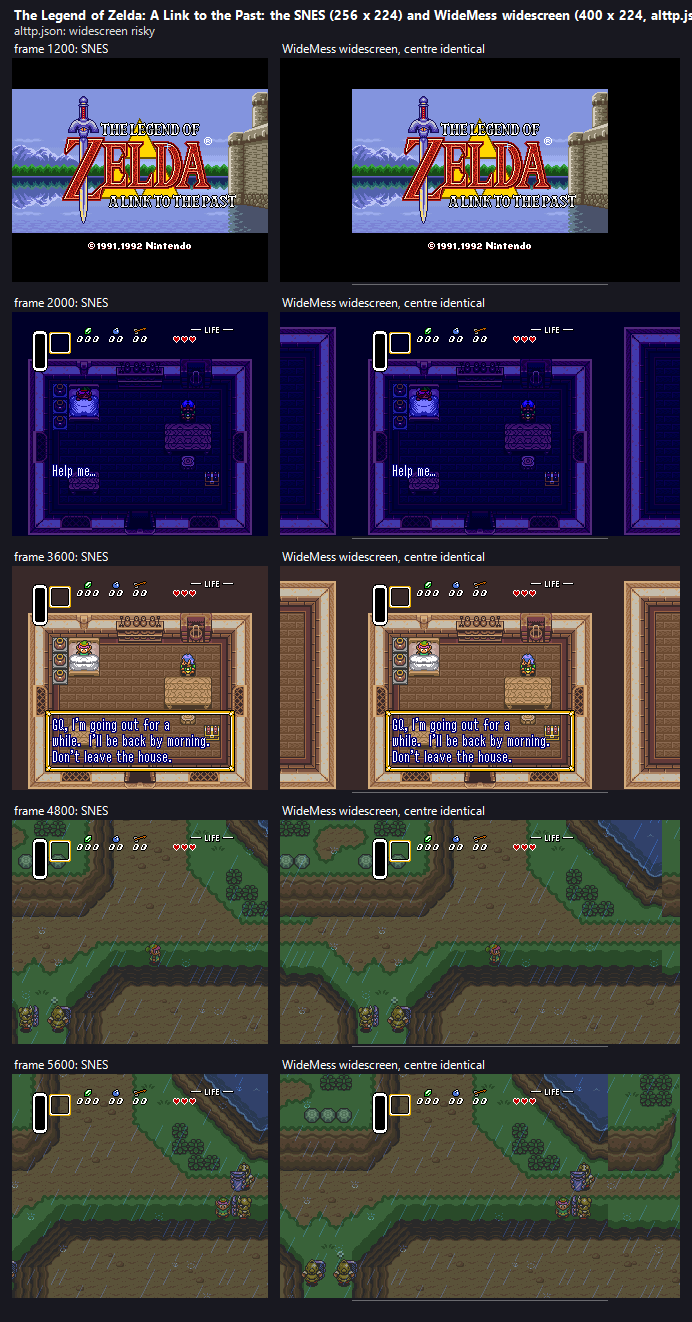
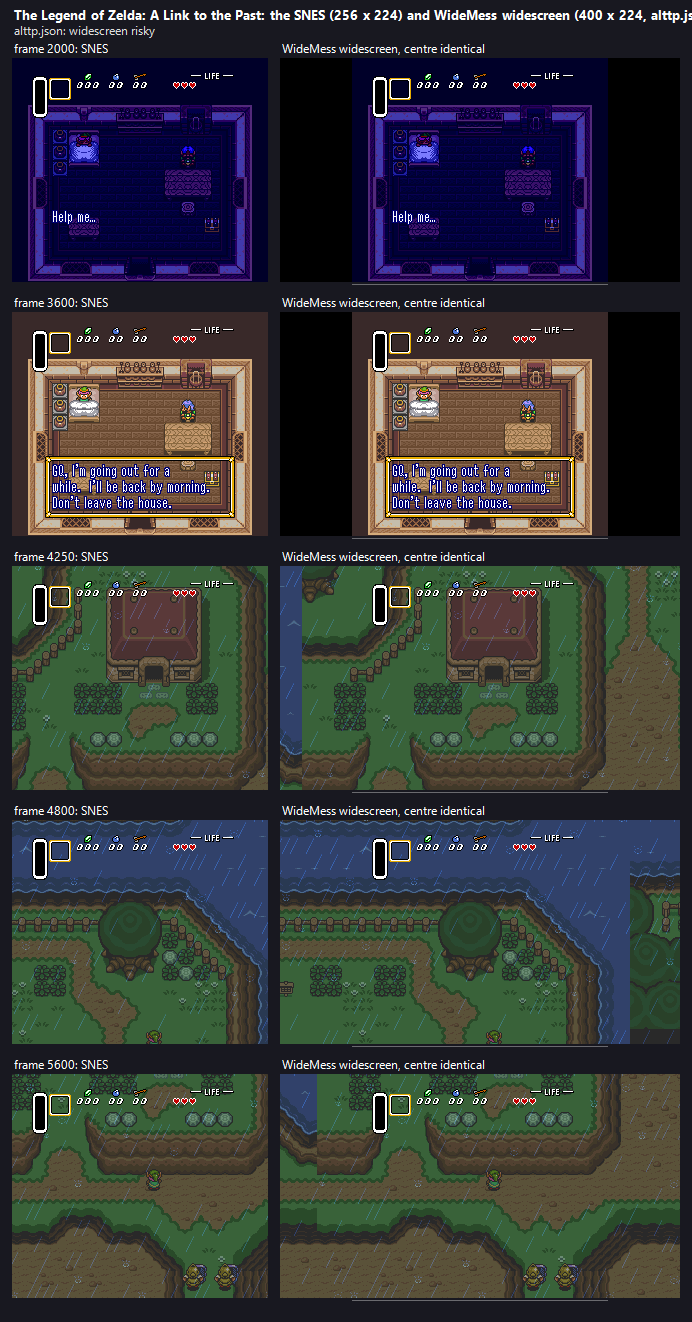
WideMess M6 climb part 2: scene conditions on work RAM (ram:$7EXXXX, read-only); A Link to the Past fills BG1/BG2 indoors by its own flag $7E:001B
Pad script extended (out in the rain, to the castle moat and back). E8: 2,327 indoor frames with no side pixels (control: 73M without the mask),
2,520 outdoor frames identical with and without it. E1 and E2g with controls. Only one indoor room reached (Link's house); said in the README.

diff --git a/Workshop/WideMessCli.RamConditionTests.cs b/Workshop/WideMessCli.RamConditionTests.cs
@@ -1,0 +1,94 @@
+using System;
+using System.IO;
+using System.Linq;
+using NesEmulator.Snes;
+using NesEmulator.Systems;
+
+namespace BrokenNes.Workshop;
+
+/// <summary>Scene conditions on work RAM (spec 6.1, the climb's part 2): E2g on a synthetic scene, E8 on A Link to the Past's indoors flag; each beside its negative control.</summary>
+internal static partial class WideMessCli
+{
+    /// <summary>E2g: a mask whose condition is a byte of work RAM, on a raw picture chip: BG1 extended over a 64-tile map, a fill mask when work RAM $7E:0010 is 1.</summary>
+    private static void SyntheticRamCondition()
+    {
+        var p = new PPU_WMS();
+        p.Reset();
+        for (int w = 16; w < 24; w++) p.Vram[w] = 0x00FF;   // tile 1: colour 1
+        p.Cgram[1] = 0x7FFF;
+        for (int a = 0x1000; a < 0x1800; a++) p.Vram[a] = 1;
+        p.WriteRegister(0x05, 0x01); p.WriteRegister(0x07, 0x11); p.WriteRegister(0x2C, 0x01); p.WriteRegister(0x00, 0x0F);
+        var rules = WmsWidescreen.AllExtend();
+        rules.Masks = new[] { new WmsMask { Layers = 0x01, Top = 0, Bottom = 223, Rule = WmsSideRule.Fill, From = 0, To = 72, Left = true, Right = true,
+            When = new[] { new WmsCondition(WmsRegister.Ram, 0xFF, 0x01, 0x0010) } } };
+        var ram = new byte[0x20000];
+        int Side(uint[] f) { int n = 0; for (int r = 0; r < 224; r++) for (int c = 0; c < 400; c++) { if (c == 72) c = 328; if (f[r * 400 + c] != 0xFF000000u) n++; } return n; }
+        p.SetEnhancements(rules, false);
+        p.WorkRam = ram;
+        ram[0x10] = 0; int off = Side(DrawFrame(p, out _));
+        ram[0x10] = 1; int on = Side(DrawFrame(p, out _));
+        ram[0x10] = 3; int other = Side(DrawFrame(p, out _));
+        bool unchanged = ram.Take(0x20).All(b => b == 0 || b == 3) && ram[0x10] == 3;   // the picture chip only reads
+        p.WorkRam = null; ram[0x10] = 1; int none = Side(DrawFrame(p, out _));
+        Check(off == 2 * 224 * 72 && on == 0 && other == 2 * 224 * 72 && unchanged,
+            "a scene condition on work RAM: the mask applies while the byte is 1 (the sides filled) and not while it is 0 or 3 (extended); work RAM is only read",
+            $"sides drawn: byte 0 {off:N0}, 1 {on:N0}, 3 {other:N0} pixels");
+        Check(none == 2 * 224 * 72, "control: without work RAM (no console) a work RAM condition never holds (the mask stays off)", $"{none:N0} side pixels");
+        p.SetEnhancements(null, false);
+    }
+
+    /// <summary>E8: A Link to the Past's indoors mask (the game's own flag, work RAM $7E:001B). On every indoor frame the room's layers draw nothing in the sides; without the mask (the
+    /// negative control) they show the map beside the room; on every outdoor frame the picture is the same as without the mask (every layer extended).</summary>
+    private static void IndoorMaskCheck(EnhanceGame g, string path, string profiles)
+    {
+        byte[] rom = RomDetect.Unwrap(File.ReadAllBytes(path), path, out _);
+        var pad = ParsePad(g.Script);
+        int frames = g.Moments.Max();
+        var controls = new (long drawn, int frames)[2];
+        foreach (int layer in new[] { 0, 1 })
+        {
+            using var a = Session(ConsoleKind.WideMess, rom);
+            using var b = Session(ConsoleKind.WideMess, rom);
+            var prof = a.EnhanceProfile.Profile;
+            if (prof?.Widescreen is not { } ws || !ws.Masks.Any(m => m.When.Any(c => c.Register == WmsRegister.Ram))) { Check(false, $"{g.Key}: its profile has an indoors mask on work RAM", a.EnhanceProfile.Describe()); return; }
+            var ws1 = ws.Copy(); ws1.Masks = ws.Masks.Where(m => !m.When.Any(c => c.Register == WmsRegister.Ram)).ToArray();
+            b.SetScratchProfile(new WmsProfile { Source = prof.Source + " without its indoors mask", Title = prof.Title, Sha1 = prof.Sha1, Widescreen = ws1, Verdicts = prof.Verdicts, VerifiedHow = "scratch" });
+            a.SetEnhancements(widescreen: true); b.SetEnhancements(widescreen: true);
+            a.WideMessPpu!.DebugCaptureLayer = layer; b.WideMessPpu!.DebugCaptureLayer = layer;
+            int indoor = 0, outdoor = 0, indoorDrawn = 0, outdoorDiffer = 0; long controlDrawn = 0;
+            PadButtons held = 0; int atA = 0, atB = 0; PadButtons heldB = 0;
+            for (int f = 1; f <= frames; f++)
+            {
+                PlayTo(a, pad, ref atA, f, ref held); PlayTo(b, pad, ref atB, f, ref heldB);
+                if (!a.WideMessPpu.FrameIsWide) continue;
+                bool inside = a.Board.Wram[0x1B] == 1;
+                var ca = a.WideMessPpu.DebugCapture; var cb = b.WideMessPpu.DebugCapture;
+                if (ca == null || cb == null) continue;
+                int h = a.WideMessPpu.VisibleHeight;
+                long sa = 0, sb = 0;
+                for (int r = 0; r < h; r++)
+                    for (int c = 0; c < PPU_WMS.WideWidth; c++)
+                    {
+                        if (c == PPU_WMS.SnesOrigin) c = PPU_WMS.SnesOrigin + 256;
+                        if (ca[r * PPU_WMS.WideWidth + c] != PPU_WMS.CaptureClear) sa++;
+                        if (cb[r * PPU_WMS.WideWidth + c] != PPU_WMS.CaptureClear) sb++;
+                    }
+                if (inside) { indoor++; if (sa > 0) indoorDrawn++; controlDrawn += sb; }
+                else
+                {
+                    outdoor++;
+                    if (!a.WideMessPpu.GetWideFrame().AsSpan(0, PPU_WMS.WideWidth * h).SequenceEqual(b.WideMessPpu.GetWideFrame().AsSpan(0, PPU_WMS.WideWidth * h))) outdoorDiffer++;
+                }
+            }
+            string bg = $"BG{layer + 1}";
+            Check(indoor >= 500 && indoorDrawn == 0, $"{g.Key}: indoors ($7E:001B = 1), {bg} draws nothing in the sides on every indoor frame (the room's map holds other rooms beside it)",
+                $"{indoor:N0} indoor frames, {indoorDrawn:N0} with side pixels");
+            controls[layer] = (controlDrawn, indoor);
+            if (layer == 0)
+                Check(outdoor >= 500 && outdoorDiffer == 0, $"{g.Key}: outdoors ($7E:001B = 0) the picture is the same with and without the indoors mask (every layer extended)", $"{outdoor:N0} outdoor frames, {outdoorDiffer:N0} differ");
+        }
+        // the negative control: without the mask the room's layers show the map beside the room (in Link's house BG2, the floor and walls; BG1 is empty beside this room)
+        Check(controls[0].drawn + controls[1].drawn > controls[1].frames * 1000L, $"{g.Key}: negative control, the same without the indoors mask: the room's layers show the map beside the room indoors",
+            $"BG1 {controls[0].drawn:N0}, BG2 {controls[1].drawn:N0} side pixels over {controls[1].frames:N0} indoor frames");
+    }
+}

diff --git a/Workshop/WideMessCli.EnhanceTests.cs b/Workshop/WideMessCli.EnhanceTests.cs
@@ -66,6 +66,8 @@ internal static partial class WideMessCli
         SyntheticLevel();
         Console.WriteLine("E2f. The level in work RAM in the byte format, the room's columns and a level per layer (Chrono Trigger's layout) on a synthetic game");
         SyntheticLevelBytes();
+        Console.WriteLine("E2g. Scene conditions on work RAM (a game's own scene flag) on a synthetic scene");
+        SyntheticRamCondition();
         Console.WriteLine("E2e. Side truth compares what a layer draws (palette entries): a synthetic game whose palette fades while it scrolls");
         SyntheticSideTruth();
 
@@ -135,6 +137,9 @@ internal static partial class WideMessCli
             Check(nj >= 300 && nl.empty * 2 >= nj, "ct: negative control, the same profile without its levels: at least half the side columns empty", $"{nl.empty:N0} empty of {nj:N0}");
             Check(xj >= 300 && ex.wrong * 5 >= xj, "ct: negative control, every layer extended: at least 20% wrong (the unrelated tiles the game keeps beside its rooms)", $"{ex.wrong:N0} wrong of {xj:N0}");
         }
+        // scene conditions on work RAM (milestone 6 climb, part 2): A Link to the Past's indoors flag
+        var zg = games.FirstOrDefault(x => x.Key == "alttp");
+        if (zg != null) IndoorMaskCheck(zg, Path.Combine(snesDir, zg.File), profiles);
         // the palette fix (spec 6.3): Super Metroid's BG2 (extended) fades a room's spores' palette between a side showing a place and the SNES picture showing it
         if (smg != null)
         {
@@ -186,6 +191,9 @@ internal static partial class WideMessCli
             Check(by.Widescreen!.Levels.Length == 2 && by.Widescreen.Levels[0] is { Layer: 0, Bytes: true, Blocks: 0x4000, Stride: 256, High: 0x40C0, HighBit: 0, Width: 0x0BCB, Tiles: 0xB000, Left: 0x1D1A, Right: 0x1D1B }
                 && by.Widescreen.Levels[1] is { Layer: 1, Blocks: 0x4040, HighBit: 1 } && lv.Widescreen.Level!.Left == -1 && !lv.Widescreen.Level.Bytes,
                 "a profile with a list of byte levels and the room's columns reads (Chrono Trigger's layout; the word format without columns as before)");
+            var rc = WmsProfile.Parse(good.Replace("\"bgmode\": \"$09\"", "\"ram:$7E001B\": \"$01\""), "ram.json");
+            Check(rc.Widescreen!.Masks[0].When[0] is { Register: WmsRegister.Ram, Address: 0x1B, Value: 1, Mask: 0xFF } && rc.Widescreen.Masks[0].When[1].Register == WmsRegister.Bg1sc,
+                "a scene condition on a work RAM byte reads (ram:$7E001B, beside a register condition)");
         }
         catch (Exception e) { Check(false, "a well-formed profile reads", e.Message); }
         (string change, string from, string to, string mustSay)[] bad =
@@ -196,6 +204,8 @@ internal static partial class WideMessCli
             ("a black mask over one layer", "\"rule\": \"fill\"", "\"rule\": \"black\"", "every layer"),
             ("a mask reaching into the centre", "\"rule\": \"fill\",", "\"rule\": \"fill\", \"to\": 80,", "0-72"),
             ("a scene condition that can never match", "\"$7C/$FC\"", "\"$7D/$FC\"", "never matches"),
+            ("a condition on a byte outside work RAM", "\"bgmode\"", "\"ram:$800000\"", "not in work RAM"),
+            ("a condition on work RAM without an address", "\"bgmode\"", "\"ram:\"", "ram:"),
             ("a condition on an unknown register", "\"bgmode\"", "\"vram\"", "'vram'"),
             ("widescreen offered without rules", "\"widescreen\": { \"layers\"", "\"unused\": { \"layers\"", "no widescreen rules"),
             ("recommending what it calls unavailable", "\"fastCpu\": \"risky\"", "\"fastCpu\": \"unavailable\" ", "fastCpu"),

diff --git a/Windows/NesEmulator/snes/WideMess.Profiles.cs b/Windows/NesEmulator/snes/WideMess.Profiles.cs
@@ -230,22 +230,29 @@ public sealed class WmsProfile
     /// <summary>The SNES registers a scene condition names, as JSON keys, in <see cref="WmsRegister"/> order.</summary>
     public static readonly string[] RegisterKeys = { "bgmode", "bg1sc", "bg2sc", "bg3sc", "bg4sc", "bg12nba", "bg34nba", "tm", "ts", "obsel", "setini", "cgwsel", "cgadsub" };
 
-    /// <summary>A mask's scene conditions: { "register": "$VV" or "$VV/$MM" } (hex; the register ANDed with the mask must equal the value; no mask = all 8 bits).</summary>
+    /// <summary>A mask's scene conditions: { "register": "$VV" or "$VV/$MM" } (hex; the register ANDed with the mask must equal the value; no mask = all 8 bits); a key "ram:$7EXXXX"
+    /// tests a byte of work RAM ($7E0000-$7FFFFF) the same way.</summary>
     private static WmsCondition[] ParseWhen(JsonElement w, string source, string at)
     {
         if (w.ValueKind != JsonValueKind.Object) throw new InvalidDataException($"{source}: {at} is an object of register: \"$VV\" or \"$VV/$MM\"");
         var list = new List<WmsCondition>();
         foreach (var p in w.EnumerateObject())
         {
-            int r = Array.IndexOf(RegisterKeys, p.Name);
-            if (r < 0) throw new InvalidDataException($"{source}: {at} names '{p.Name}' (one of {string.Join(", ", RegisterKeys)})");
+            int r = Array.IndexOf(RegisterKeys, p.Name), address = 0;
+            if (p.Name.StartsWith("ram:", StringComparison.Ordinal))
+            {
+                int a = Hex(p.Name[4..], $"{at}.{p.Name}", source);
+                if (a < 0x7E0000 || a > 0x7FFFFF) throw new InvalidDataException($"{source}: {at}.{p.Name}: ${a:X6} is not in work RAM ($7E0000-$7FFFFF)");
+                r = (int)WmsRegister.Ram; address = a - 0x7E0000;
+            }
+            if (r < 0) throw new InvalidDataException($"{source}: {at} names '{p.Name}' (one of {string.Join(", ", RegisterKeys)}, or ram:$7EXXXX)");
             string text = p.Value.ValueKind == JsonValueKind.String ? p.Value.GetString()! : "";
             var parts = text.Split('/');
             byte value = 0, mask = 0xFF;
             bool ok = parts.Length <= 2 && TryHexByte(parts[0], out value) && (parts.Length == 1 || TryHexByte(parts[1], out mask));
             if (!ok) throw new InvalidDataException($"{source}: {at}.{p.Name} is '{text}' (\"$VV\" or \"$VV/$MM\", hex)");
             if ((value & ~mask) != 0) throw new InvalidDataException($"{source}: {at}.{p.Name}: the value ${value:X2} has bits outside the mask ${mask:X2}, so it never matches");
-            list.Add(new WmsCondition((WmsRegister)r, mask, value));
+            list.Add(new WmsCondition((WmsRegister)r, mask, value, address));
         }
         return list.ToArray();
     }

diff --git a/Windows/NesEmulator/snes/WideMess.Enhance.cs b/Windows/NesEmulator/snes/WideMess.Enhance.cs
@@ -42,10 +42,11 @@ public sealed class WmsMask
 }
 
 /// <summary>The SNES registers a mask's scene condition can test (spec 6.2's <c>when</c> keys).</summary>
-public enum WmsRegister : byte { Bgmode, Bg1sc, Bg2sc, Bg3sc, Bg4sc, Bg12nba, Bg34nba, Tm, Ts, Obsel, Setini, Cgwsel, Cgadsub }
+public enum WmsRegister : byte { Bgmode, Bg1sc, Bg2sc, Bg3sc, Bg4sc, Bg12nba, Bg34nba, Tm, Ts, Obsel, Setini, Cgwsel, Cgadsub, Ram }
 
-/// <summary>One scene condition: (register AND mask) == value.</summary>
-public readonly record struct WmsCondition(WmsRegister Register, byte Mask, byte Value);
+/// <summary>One scene condition: (register AND mask) == value. <see cref="WmsRegister.Ram"/>: a byte of work RAM (<paramref name="Address"/>, an offset into the 128 KB) as the game last
+/// wrote it, read as a debugger reads (spec 6.1, the climb's part 2: a game's own scene flag, A Link to the Past's indoors).</summary>
+public readonly record struct WmsCondition(WmsRegister Register, byte Mask, byte Value, int Address = 0);
 
 /// <summary>The level in work RAM (spec 6.1): where a game keeps its whole level as 16 x 16-pixel blocks of 2 x 2 map entries. Offsets into the board's 128 KB work RAM.</summary>
 public sealed class WmsLevel
@@ -719,7 +720,8 @@ public sealed partial class PPU_WMS
                 WmsRegister.Bg1sc => RegBgsc(0), WmsRegister.Bg2sc => RegBgsc(1), WmsRegister.Bg3sc => RegBgsc(2), WmsRegister.Bg4sc => RegBgsc(3),
                 WmsRegister.Bg12nba => RegBg12nba, WmsRegister.Bg34nba => RegBg34nba,
                 WmsRegister.Tm => RegTm, WmsRegister.Ts => RegTs, WmsRegister.Obsel => RegObsel, WmsRegister.Setini => RegSetini,
-                WmsRegister.Cgwsel => RegCgwsel, _ => RegCgadsub,
+                WmsRegister.Cgwsel => RegCgwsel, WmsRegister.Cgadsub => RegCgadsub,
+                _ => WorkRam is { } ram && (uint)c.Address < (uint)ram.Length ? ram[c.Address] : (byte)~c.Value,   // work RAM; without it (no console) the condition never holds
             };
             if ((v & c.Mask) != c.Value) return false;
         }

diff --git a/Workshop/WideMessCli.Enhance.cs b/Workshop/WideMessCli.Enhance.cs
@@ -56,7 +56,7 @@ internal static partial class WideMessCli
             Taps(200, 1900, 50, "Start", "A", "B", "Right", "A", "Down", "Right+B") + "," + Hold(2500, 6000, 70, "Right+Y", "B"), new[] { 800, 2000, 2800, 3600, 4400 }),
         new("sm", "Super Metroid", "Super Metroid (JU) [!].smc", "", new[] { 2250, 3150, 4050, 5400, 6300 }),
         new("alttp", "The Legend of Zelda: A Link to the Past", "Legend of Zelda, The - A Link to the Past (U) [!].smc",
-            "1300:Start,1308:," + Taps(1500, 2400, 60, "Start", "A", "Down", "A") + "," + Taps(2400, 4000, 50, "A") + ",4000:Down,4040:Right,4060:Down,4300:Down+Right,4400:Down,4700:Right,5000:Down,5400:", new[] { 1200, 2000, 3600, 4800, 5600 }),
+            "1300:Start,1308:," + Taps(1500, 2400, 60, "Start", "A", "Down", "A") + "," + Taps(2400, 4000, 50, "A") + ",4000:Down,4040:Right,4060:Down,4300:Right,4500:Up,4900:Down,5250:Left,5390:Up,5540:", new[] { 2000, 3600, 4250, 4800, 5600 }),   // climb part 2: out of the house, up to the castle and back (indoors, outdoors)
         new("fzero", "F-Zero", "F-ZERO (U) [!].smc", "", new[] { 450, 1800, 2700, 5400, 6750 }),
         new("smk", "Super Mario Kart", "Super Mario Kart (U) [!].smc", "", new[] { 450, 2700, 3600, 5850, 6750 }),
         new("ct", "Chrono Trigger", "Chrono Trigger (U) [!].smc", "", new[] { 3000, 4800, 5850, 6600, 7950 }),   // the field scenes (milestone 6 climb, part 2: the levels in work RAM)

diff --git a/Workshop/WideMessCli.LevelProbe.cs b/Workshop/WideMessCli.LevelProbe.cs
@@ -81,6 +81,12 @@ internal static partial class WideMessCli
                     if (n > best) { best = n; bestTx = tx; bestTy = ty; }
                 }
             Console.WriteLine($"  frame {m}: {layerName} HOFS {hofs} VOFS {vofs} SC {sc:X2}, room width {width} blocks; best: world tile ({bestTx}, {bestTy}) at map tile ({c0}, {r0}), {best} of {total} sampled tiles match");
+            // --peek $7E001B,...: research, work RAM bytes at each moment (a game's scene flags)
+            foreach (var pk in Opt(args, "peek", "").Split(',', StringSplitOptions.RemoveEmptyEntries))
+            {
+                int pa = Convert.ToInt32(pk.TrimStart('$'), 16) - 0x7E0000;
+                Console.WriteLine($"    frame {m} ${0x7E0000 + pa:X6} = ${wram[pa]:X2}; CGADSUB {r.Cgadsub:X2} BGMODE {r.Bgmode:X2} BG1SC {r.Bg1sc:X2} BG2SC {r.Bg2sc:X2}");
+            }
             string saveTo = Opt(args, "save-ram", "");
             if (saveTo != "")
             {

diff --git a/docs/projects/widemess-spec.md b/docs/projects/widemess-spec.md
@@ -545,6 +545,10 @@ A 64-byte header, then the ROM image as the 65816 sees it under the header's map
     with a value, so a mask can apply to one scene only. Examples: a title screen whose BG1 map is at `$1000`; the rows where
     `BGMODE` puts BG3 in front. The registers are `BGMODE`, `BG1SC`-`BG4SC`, `BG12NBA`, `BG34NBA`, `TM`, `TS`, `OBSEL`,
     `SETINI`, `CGWSEL` and `CGADSUB`.
+    **Work RAM** (milestone 6 climb, part 2): a condition can also test a byte of work RAM (`"ram:$7E001B": "$01"`, any address
+    `$7E0000-$7FFFFF`), for a game whose scene is told by its own flag rather than by its registers (A Link to the Past's indoors
+    flag). The byte is the one the game last wrote when the line is drawn, read as a debugger reads: no side effect, the game sees
+    nothing (the extension stays locked). Without a console's work RAM (a bare picture chip) such a condition never holds.
   Masks can never touch the centre. A later mask in the list wins over an earlier one.
 - **Window edges** (`windows`): `reach` (the default, section 3.4) or `snes`, which keeps the SNES's window positions where the
   SNES draws them. Use `snes` for a game that masks a few edge columns with a window, which would otherwise black out a whole side.
@@ -647,7 +651,8 @@ profile already claims is refused with the reason. It is never half-read.
   default) the word map above; either may have `columns` (`["$left", "$right"]`, the addresses of two bytes).
 - A mask's keys: `why`, `layers` (`bg1`-`bg4`, `sprites`, or `all`; a black mask covers `all`), `rows` (`[top, bottom]`, 0-238),
   `rule` (fill / repeat / black; sprites cannot repeat), and optionally `side` (both / left / right), `from` and `to` (0-72, from < to)
-  and `when` (`{ "register": "$VV" }` or `"$VV/$MM"`, hex; a value with bits outside its mask is refused, it could never match).
+  and `when` (`{ "register": "$VV" }` or `"$VV/$MM"`, hex; a value with bits outside its mask is refused, it could never match; a key
+  `"ram:$7EXXXX"` tests a work RAM byte, an address outside work RAM is refused).
 - `file` (optional) names the ROM file the profile was made with.
 - In `enhancements`, each of the four is one of:
   - `good`: verified;
@@ -729,7 +734,7 @@ by `--wms-test` in lockstep with the SNES console, through a pad script or the g
 | Yoshi's Island (Super FX 2) | risky | BG1 drawn with the map memory, the rest extended | 18 | risky |
 | Donkey Kong Country | good | BG1 drawn (ahead 0), the rest extended; black sides for the intro and level-name screens | 0 | risky |
 | Super Metroid | **good** (milestone 6 climb) | BG1 drawn (ahead 0) with the level in work RAM, the rest extended; BG3 filled in the status rows | 0 | risky |
-| A Link to the Past | risky | all extended | 0 | risky |
+| A Link to the Past | risky | all extended; BG1 and BG2 filled indoors (its indoors flag, work RAM `$7E:001B`; climb part 2) | 0 | risky |
 | F-Zero | good | all extended, sprites filled; BG3 filled above the horizon | 0 | risky |
 | Super Mario Kart (DSP-1) | good | all extended, sprites filled; black sides for the title | 0 | risky |
 | Chrono Trigger | **risky** (climb part 2) | BG1 and BG2 drawn with their levels in work RAM (the byte format, the room's columns), BG3 drawn | 0 | broken: times itself by the beam |

diff --git a/WideMess/README.md b/WideMess/README.md
@@ -537,6 +537,25 @@ bit 0 (BG1) / bit 1 (BG2) of the byte at `+$C0`, the block table at `$7E:B000` (
   least half empty; every layer extended at least 20% wrong); E6 (Chrono Trigger in lockstep with its levels on: the centre identical over
   7,650 frames, `STAT77` and the sound identical, off frame-identical).
 
+**A Link to the Past indoors: scene conditions on work RAM** (spec 6.1, 6.2). A mask's `when` can now test a byte of work RAM
+(`"ram:$7E001B": "$01"`), read as a debugger reads when the line is drawn (no side effect; without a console's work RAM it never holds).
+A Link to the Past's own indoors flag is `$7E:001B` (1 in Link's house, at night and in the morning; 0 on the title, the menus and
+outdoors), and its profile now fills BG1 and BG2 in the sides while it is 1: indoors the sides show the backdrop instead of the other
+rooms of the 512 x 512 map; outdoors every layer stays extended.
+- The pad script now goes on after the house: out in the rain, up to the castle's moat (area `$1B`) and back towards the house (frames
+  4000-5540; the sheet's moments 2000, 3600, 4250, 4800, 5600). **Not reached: a second indoor room.** The secret passage into the castle
+  (the next indoor place) was not found by the scripted route within this round, so the indoors rule is proven on one room (Link's house,
+  two scenes: the dream at night and the morning), 2,327 indoor frames; the flag is the game's own, so other rooms use the same condition.
+- Side truth (palette entries, 5,600 frames): BG2 91.4 / 0 / 8.6 (claims of frames 4354-4358 beside the house), BG1 no side column judged;
+  every layer extended the same (indoors nothing scrolls, so the tool judges no indoor column: the indoors proof is E8's).
+- Sheets: `docs/projects/widemess-images/m6/alttp.png` (the profile: black sides indoors, the overworld outdoors),
+  `m6d/alttp-all-extended.png` (every layer extended: the other rooms beside Link's house).
+- **Checks** (each with its negative control): E1 (a work RAM condition reads beside a register one; an address outside work RAM and
+  `ram:` without an address refused); E2g (a synthetic mask on work RAM byte `$10`: filled while it is 1, extended at 0 and 3, work RAM only
+  read; without work RAM it never holds); E8 (A Link to the Past: on all 2,327 indoor frames BG1 and BG2 draw nothing in the sides; without
+  the mask BG2 draws 73 million side pixels there; on all 2,520 outdoor frames the picture is the same with and without the mask); E6 (the
+  new script in lockstep: the centre identical, `STAT77` and the sound identical, off frame-identical).
+
 ## Milestone 7a result (2026-10-24): WideMess in BrokenNes Lite and in the FL plugin
 
 How WideMess appears in each host, and why the plugin differs, is spec section 9.
